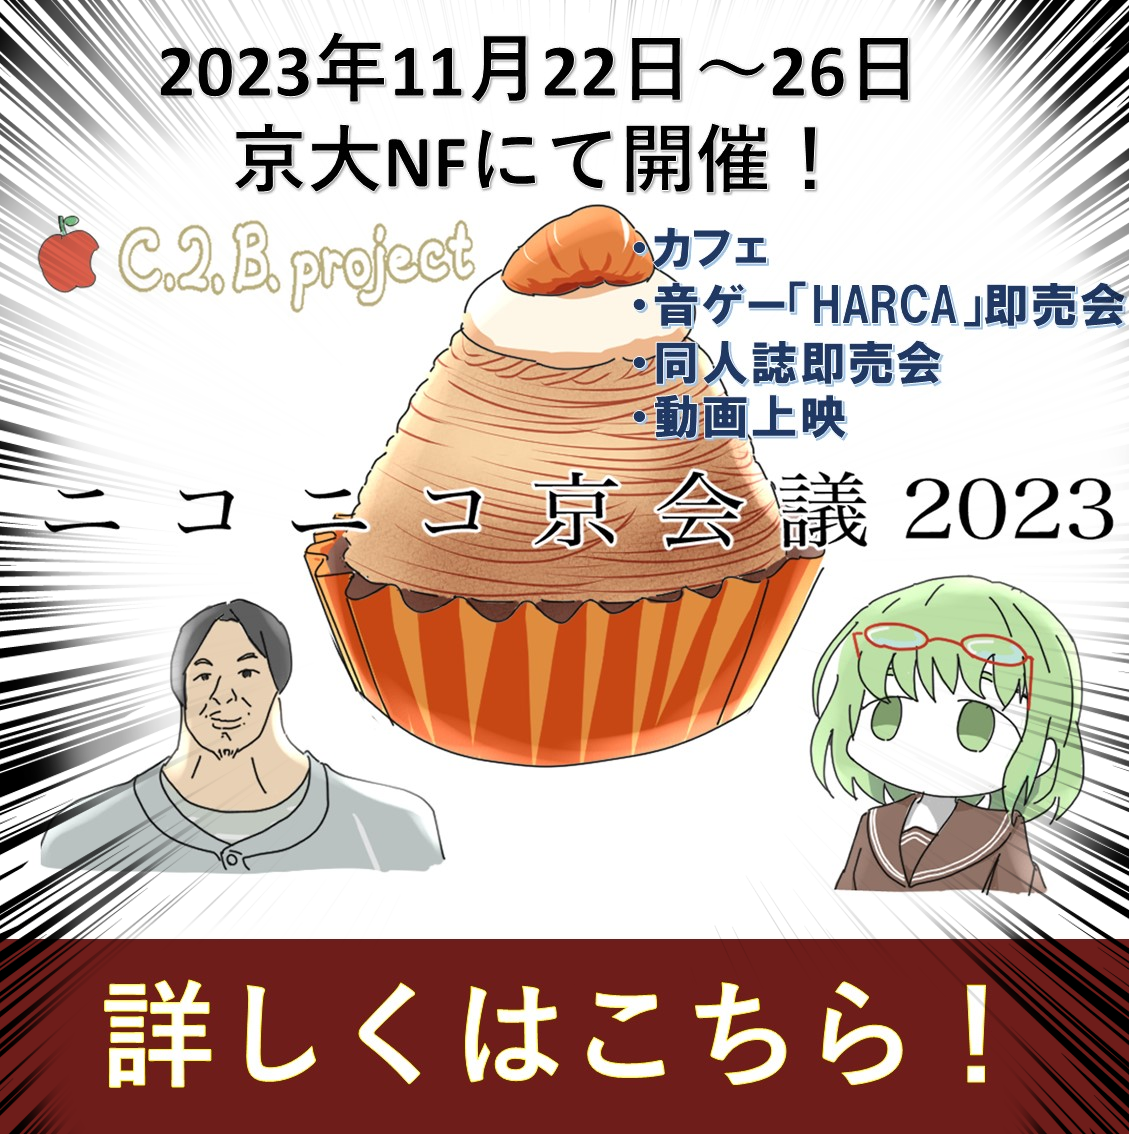
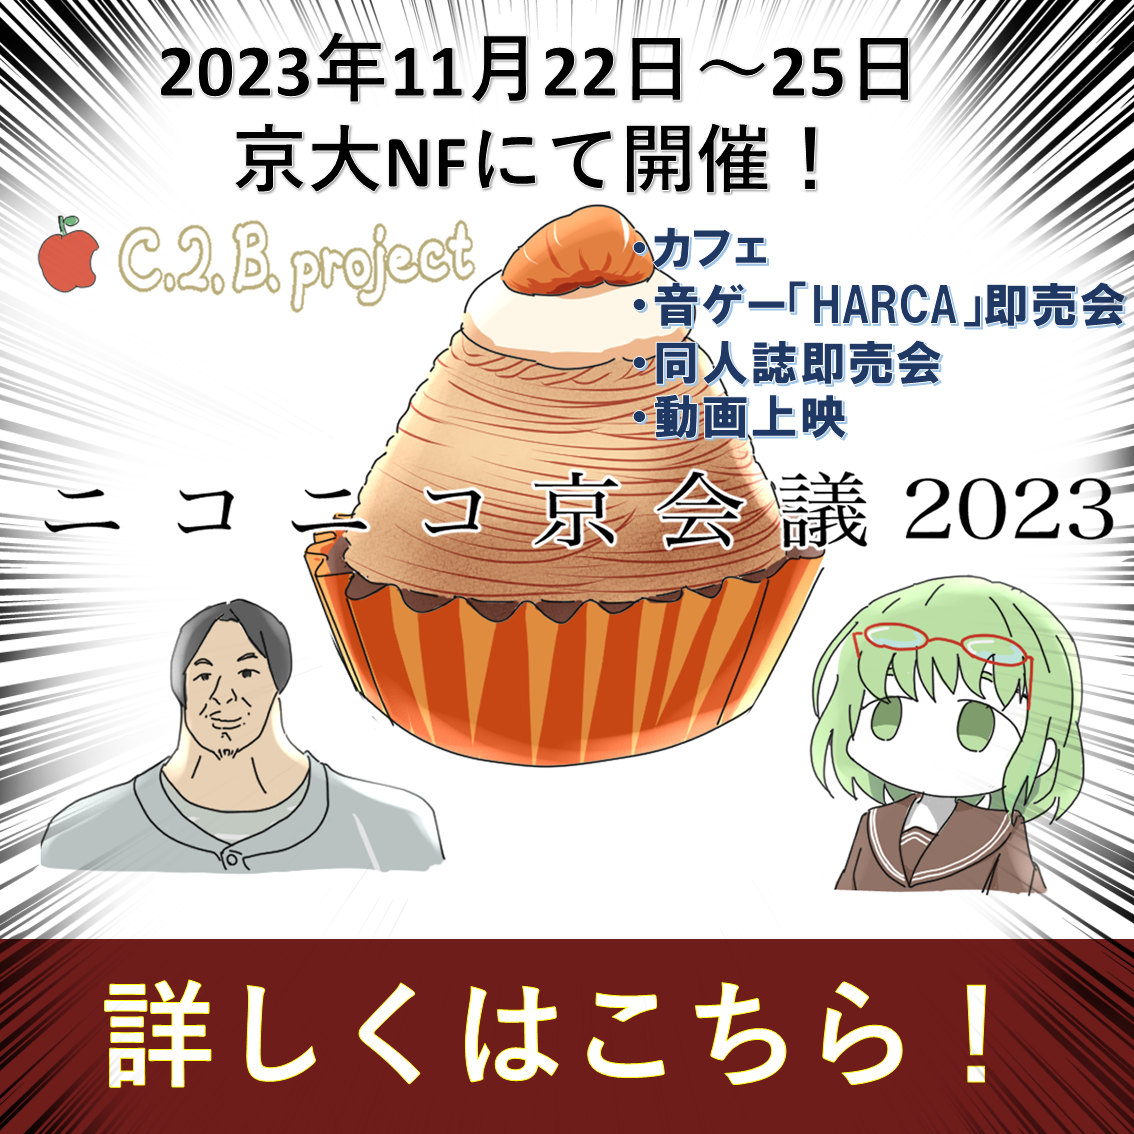
日付修正・屋外企画追加

diff --git a/nf2023.html b/nf2023.html
@@ -39,12 +39,11 @@
 		2023年度京都大学11月祭(NF)で、創作物の即売会・動画上映・コーヒーやケーキの提供を行います！(仮)
 	</p>
 	<p class="date">
-		2023年11月22日(水)～26日(土)<br>
+		2023年11月22日(水)～25日(土)<br>
 		何時～何時<br>
 		京都大学[建物名]n階[教室名]
 	</p>
-	<h2>おしながき</h2>
-
+	<h2>屋内企画</h2>
 	<div class="sinagaki">
 		<img src="images/coffee.jpg" style="float: left;">
 		<div class="description">
@@ -60,7 +59,7 @@
 	<div class="sinagaki">
 		<img src="images/harca.png" style="float: right;">
 		<div class="description">
-			<h3>リズムゲーム「HARCA」即売会</h3>
+			<h3>リズムゲーム「HARCA」頒布</h3>
 			<p>ここも同様。HARCAのホームページができればそのリンクも張りたいですね</p>
 		</div>
 	</div>
@@ -68,15 +67,15 @@
 	<div class="sinagaki">
 		<img src="images/shinkan2023.jpg" style="float: left;">
 		<div class="description">
-			<h3>同人誌即売会</h3>
-			<p>同人誌を頒布するよ。ここに同人誌に関する紹介をかくよ</p>
+			<h3>合同誌頒布</h3>
+			<p>合同誌を頒布するよ。ここに合同誌に関する紹介をかくよ</p>
 		</div>
 	</div>
 
 	<div class="sinagaki">
 		<img src="images/shinkan2023.jpg" style="float: right;">
 		<div class="description">
-			<h3>なんたらかんたら即売会</h3>
+			<h3>しつびコンピ</h3>
 			<p>なんたらかんたらなんたらかんたらなんたらかんたらなんたらかんたらなんたらかんたら
 				なんたらかんたらなんたらかんたらなんたらかんたらなんたらかんたら
 				なんたらかんたらなんたらかんたらなんたらかんたら
@@ -91,6 +90,19 @@
 			<p>なんたらかんたらなんたらかんたらなんたらかんたらなんたらかんたらなんたらかんたら
 				なんたらかんたらなんたらかんたらなんたらかんたらなんたらかんたら
 				なんたらかんたらなんたらかんたらなんたらかんたら
+			</p>
+		</div>
+	</div>
+
+	<h2>ステージ企画</h2>
+	<div class="sinagaki">
+		<img src="images/shinkan2023.jpg" style="float: left;">
+		<div class="description">
+			<h3>踊ってみた</h3>
+			<p>踊ってみた企画の名前ってなんですかね。あと画像ください。日時・セトリなど色々書くことありそう。ほげほげほげほげほげほげほげほげほげほげほげほげほげほげ
+				ほげほげほげほげほげほげほげほげほげほげほげほげほげほげほげほげほげほげほげほげほげほげほげほげほげほげほげほげ
+				ほげほげほげほげほげほげほげほげほげほげほげほげほげほげほげほげほげほげほげほげほげほげほげほげほげほげほげほげ
+				ほげほげほげほげほげほげほげほげほげほげほげほげほげほげほげほげ
 			</p>
 		</div>
 	</div>

diff --git a/index.html b/index.html
@@ -91,7 +91,7 @@
         <h1>News</h1>
         <article>
 			<h2>NF企画「ニコニコ京会議2023」を開催します！</h2>
-			<p>2023年11月22日(水)から26日(土)にかけて開催される京都大学11月祭において、C2B projectは[建物名]n階の[教室名]にて「ニコニコ京会議2023」を開催します。リズムゲーム「HARCA」即売会や同人誌の即売会、動画上映会の他、コーヒーやケーキを提供するカフェも運営します。</p>
+			<p>2023年11月22日(水)から25日(土)にかけて開催される京都大学11月祭において、C2B projectは[建物名]n階の[教室名]にて「ニコニコ京会議2023」を開催します。リズムゲーム「HARCA」即売会や同人誌の即売会、動画上映会の他、コーヒーやケーキを提供するカフェも運営します。</p>
 			<p>是非お越しください！詳しくは<a href="nf2023.html">こちら(ニコニコ京会議2023)</a>をご覧ください。</p>
 
 			<h2>C.2.B project(通称しつび、C2B)へようこそ！<br /></h2>
